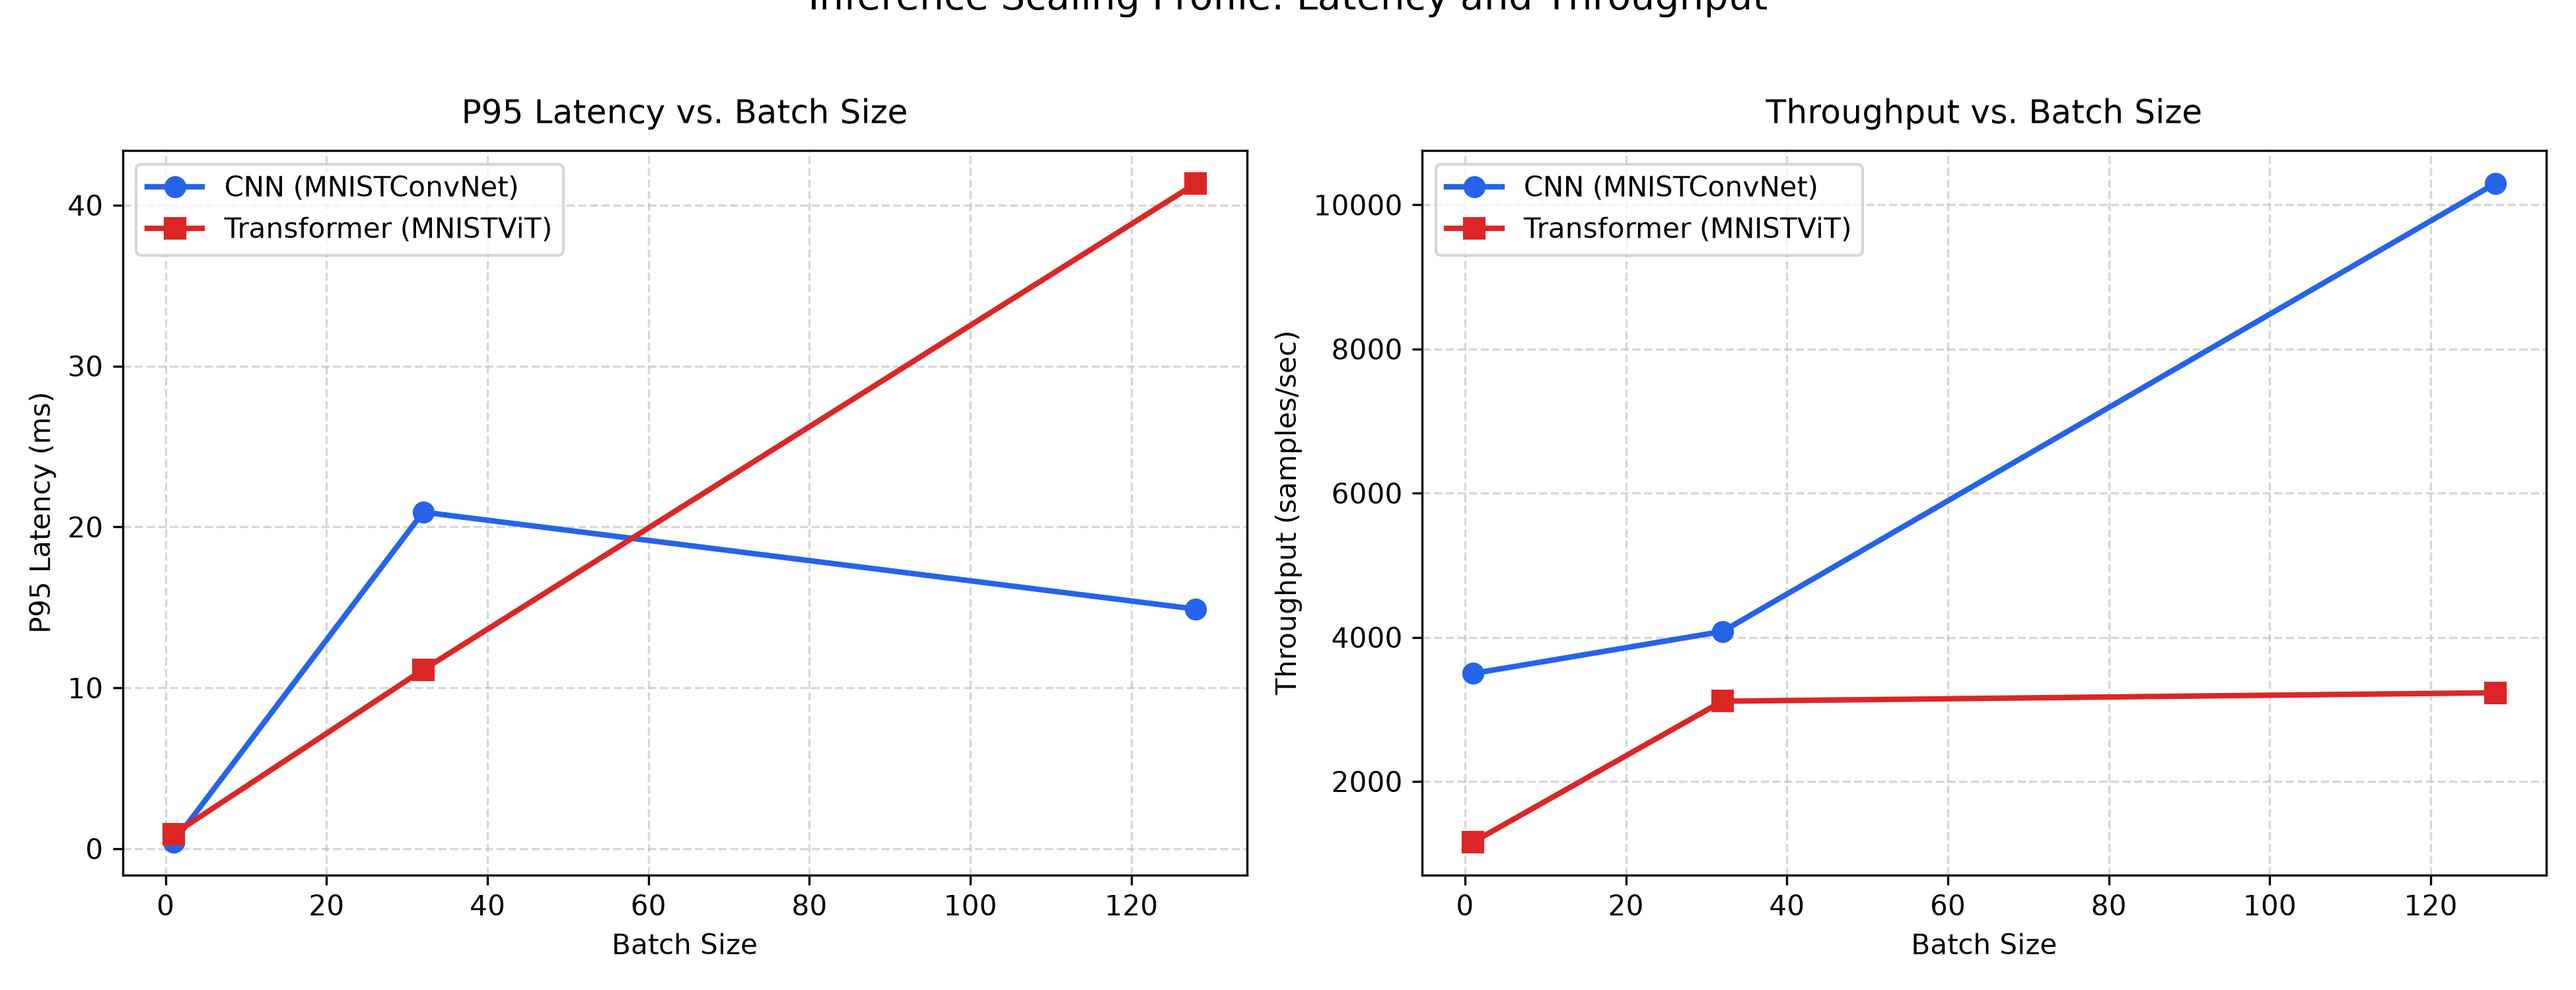
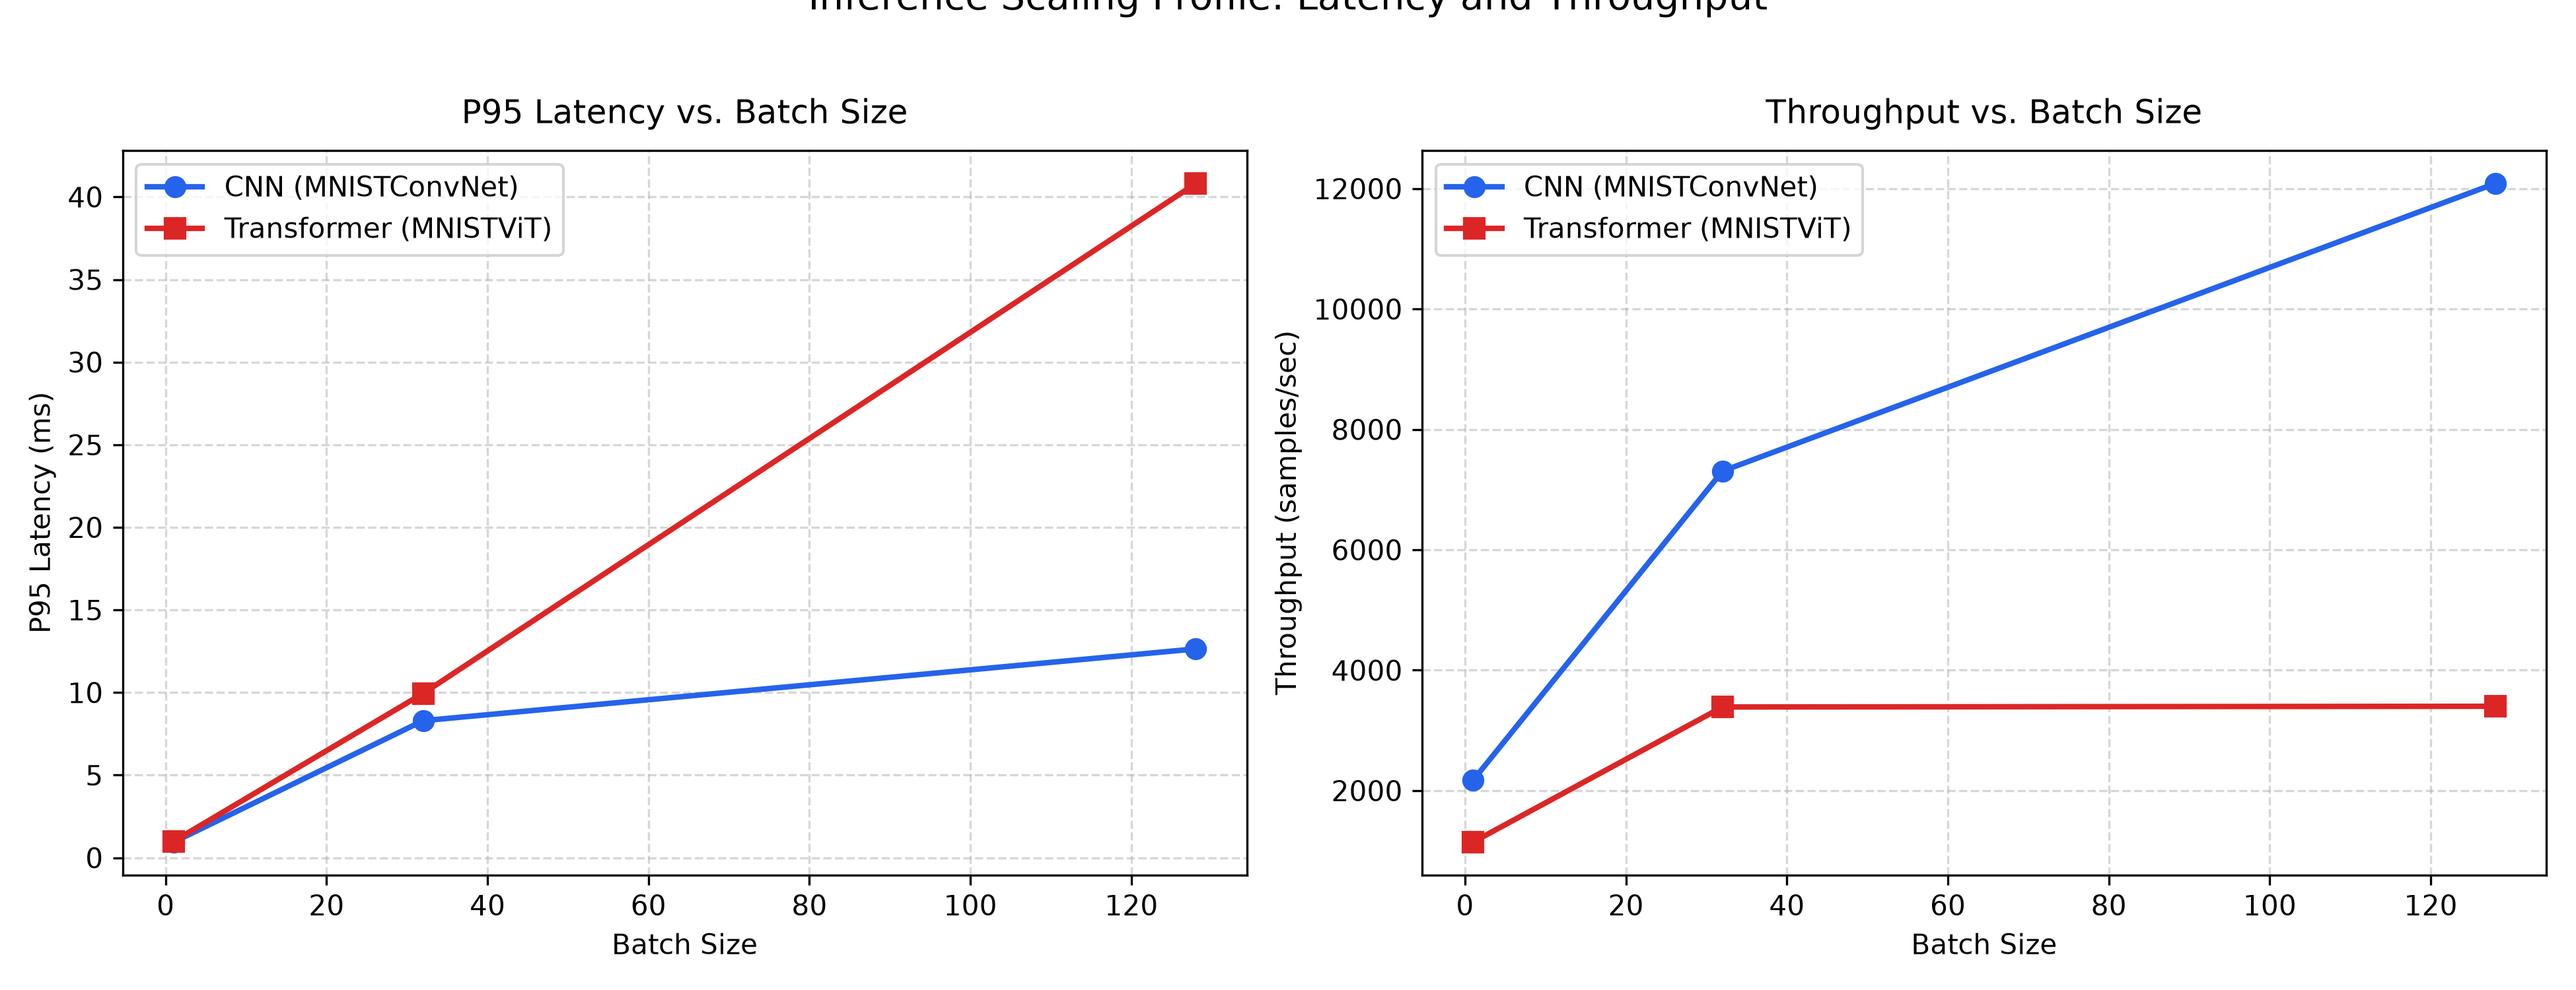
Feature/multi architecture transformer experiment (#21)
* feat(config): add Vision Transformer (ViT) model configuration preset (#17)

* feat(research): implement Vision Transformer (ViT), artifact isolation, and model comparison engine (#17)

* fix(inference): fix import

* update(docs): Support for both CNN-based (MNISTConvNet) and Vision Transformer-based (MNISTViT) architectures, along with instructions on how to train, evaluate, and benchmark each, is documented across several dedicated Markdown documents

* fix(path): artifact path fixed

diff --git a/scripts/compare_models.py b/scripts/compare_models.py
@@ -57,7 +57,14 @@ def main() -> None:
             p_val = Path(spec)
             label = p_val.name
             path_str = spec
-        models_dict[label.strip()] = Path(path_str.strip())
+        p_target = Path(path_str.strip())
+        if (
+            not p_target.exists()
+            and path_str.strip() == "artifacts/models/mnist_cnn"
+            and (Path("artifacts") / "evaluation" / "test_metrics.json").exists()
+        ):
+            p_target = Path("artifacts")
+        models_dict[label.strip()] = p_target
 
     LOGGER.info("Starting systematic model comparison for %d models:", len(models_dict))
     for label, path in models_dict.items():

diff --git a/tests/test_config.py b/tests/test_config.py
@@ -218,6 +218,11 @@ def test_transformer_hydra_config_loads() -> None:
     assert cfg.model.depth == 4
     assert cfg.model.num_heads == 4
     assert cfg.model.mlp_ratio == 2.0
+    assert cfg.paths.artifacts_dir == "artifacts/models/mnist_vit"
+    assert cfg.paths.checkpoints_dir == "artifacts/models/mnist_vit/checkpoints"
+    assert (
+        cfg.evaluate.checkpoint_path == "artifacts/models/mnist_vit/checkpoints/checkpoint_best.pt"
+    )
 
 
 def test_artifact_path_isolation_interpolation() -> None:

diff --git a/src/mnist_pipeline/config.py b/src/mnist_pipeline/config.py
@@ -237,6 +237,7 @@ class ModelConfig:
     num_heads: int = 4
     mlp_ratio: float = 2.0
     attention_dropout: float = 0.0
+    artifacts_dir: str | None = None
 
 
 @dataclass

diff --git a/README.md b/README.md
@@ -15,6 +15,7 @@ A reproducible, configuration-driven **MNIST handwritten digit classification pi
 - **Deterministic Data & Pipeline Versioning (`dvc.yaml`)**: Five-stage DAG (`preprocess -> train -> evaluate -> benchmark -> report`) with stratified train/validation splitting (`54,000 / 6,000 / 10,000`) and SHA-256 tensor checksums.
 - **Experiment Tracking (`Weights & Biases`)**: Pluggable `ExperimentTracker` supporting `online`, `offline`, and `disabled` modes with automated metric, figure, and checkpoint artifact logging.
 - **Hugging Face Hub Integration**: Automated `safetensors` serialization (`MNISTConvNet.save_pretrained` / `from_pretrained`), Jinja2-rendered Model & Dataset Cards (`docs/model_card.md`, `docs/dataset_card.md`), and CLI upload/inference scripts.
+- **Multi-Architecture Support (CNN vs. Vision Transformer)**: Supports both classical convolution ([`MNISTConvNet`](src/mnist_pipeline/model.py) via `model=cnn`, 421k params, 99.04% acc) and pure attention-based vision models ([`MNISTViT`](src/mnist_pipeline/model.py) via `model=transformer`, 540k params, 95.70% acc) with isolated artifact namespacing (`artifacts/cnn/` vs. `artifacts/transformer/`) and automated head-to-head comparison reporting (`make compare-models`).
 - **Interactive Hugging Face Docker Space (`app/`, `Dockerfile`)**: Streamlit web application supporting freehand digit drawing (`streamlit-drawable-canvas`), image uploads with automatic polarity inversion, and live 10-class probability bar charts.
 
 ---
@@ -93,6 +94,7 @@ make app
 | `make evaluate` | Evaluate `checkpoint_best.pt` on the 10,000 held-out test set |
 | `make benchmark` | Benchmark latency (`p50`, `p95`, `p99`) and throughput across batch sizes `[1, 32, 128]` |
 | `make report` | Generate training curves, confusion matrix, sample predictions, and Hub cards |
+| `make compare-models` | Systematically compare CNN vs. ViT metrics and compile Markdown comparison study |
 | `make evaluate-mve` | Verify all 5 Minimum Viable Experiment (MVE) acceptance criteria gates |
 | `make smoke-eval` | Execute sub-second synthetic tensor contract and gradient flow verification |
 | `make sweep` | Initialize and run W&B Bayesian hyperparameter sweep (`COUNT=5`) |
@@ -113,9 +115,12 @@ make app
 
 ## 📚 Documentation Index
 
-- [**Step-by-Step User Guide (`docs/user_guide.md`)**](docs/user_guide.md): Comprehensive 9-part guide covering setup, data preprocessing, Hydra training, W&B tracking, evaluation/benchmarking, reporting, HF Hub upload/inference, and Docker Space deployment.
-- [**PyTorch Neural Network & Training Loop Tutorial (`docs/tutorials/pytorch_nn_and_cnn_training_tutorial.md`)**](docs/tutorials/pytorch_nn_and_cnn_training_tutorial.md): Beginner-friendly guide to Feedforward (MLP) and Convolutional Neural Networks (CNNs) with a line-by-line annotated walkthrough of the PyTorch training loop in `src/mnist_pipeline/train.py`.
+- [**Step-by-Step User Guide (`docs/user_guide.md`)**](docs/user_guide.md): Comprehensive guide covering setup, data preprocessing, Hydra training (CNN & ViT), W&B tracking, evaluation/benchmarking, reporting, HF Hub upload/inference, and Docker Space deployment.
+- [**CNN vs. Vision Transformer Study (`docs/experiments/cnn_vs_transformer_study.md`)**](docs/experiments/cnn_vs_transformer_study.md): Empirical head-to-head comparison study evaluating accuracy, latency scaling, throughput, parameter efficiency, and Pareto frontier.
+- [**ViT Feasibility Study (`docs/research/transformer_mnist_feasibility_study.md`)**](docs/research/transformer_mnist_feasibility_study.md): Deep architectural analysis, theoretical formulation, patch projection math, and multi-architecture roadmap.
+- [**PyTorch Neural Network & Training Loop Tutorial (`docs/tutorials/pytorch_nn_and_cnn_training_tutorial.md`)**](docs/tutorials/pytorch_nn_and_cnn_training_tutorial.md): Beginner-friendly guide to Feedforward (MLP) and Convolutional Neural Networks (CNNs) with an annotated training loop walkthrough.
 - [**MVE Baseline Study (`docs/experiments/mve_baseline_study.md`)**](docs/experiments/mve_baseline_study.md): Reproducible baseline instructions, acceptance gate adjudication, training curves, and test evaluation/benchmark tables.
 - [**Model Card (`docs/model_card.md`)**](docs/model_card.md): Architecture details, training hyperparameters, per-class evaluation metrics, and latency benchmarks.
 - [**Dataset Card (`docs/dataset_card.md`)**](docs/dataset_card.md): Dataset provenance, normalization formula, and stratified class distribution across splits.
 - [**Implementation Plan (`docs/mnist_pytorch_pipeline_implementation_plan.md`)**](docs/mnist_pytorch_pipeline_implementation_plan.md): Complete architectural specification and design blueprint.
+

diff --git a/docs/experiments/cnn_vs_transformer_study.md b/docs/experiments/cnn_vs_transformer_study.md
@@ -8,8 +8,8 @@
 
 This report presents a head-to-head empirical comparison between **CNN (MNISTConvNet)** and **Transformer (MNISTViT)** trained and evaluated under identical, isolated experimental protocols on the MNIST benchmark dataset.
 
-- **Accuracy Delta**: **Transformer (MNISTViT)** achieves `95.70%` vs. **CNN (MNISTConvNet)** `99.04%` (difference: `-3.34%`).
-- **Inference Efficiency**: **CNN (MNISTConvNet)** is `2.2x` faster at single-sample P95 latency (`0.41 ms` vs. `0.90 ms`).
+- **Accuracy Delta**: **Transformer (MNISTViT)** achieves `95.65%` vs. **CNN (MNISTConvNet)** `98.93%` (difference: `-3.28%`).
+- **Inference Efficiency**: **CNN (MNISTConvNet)** is `1.1x` faster at single-sample P95 latency (`0.94 ms` vs. `0.99 ms`).
 - **Parameter Footprint**: **CNN (MNISTConvNet)** has `421,834` trainable parameters vs. `540,170` for **Transformer (MNISTViT)**.
 
 ---
@@ -18,15 +18,15 @@ This report presents a head-to-head empirical comparison between **CNN (MNISTCon
 
 | Performance Metric | **CNN (MNISTConvNet)** | **Transformer (MNISTViT)** | Delta / Comparison |
 | :--- | :---: | :---: | :---: |
-| **Test Accuracy (%)** | `99.04%` | `95.70%` | `-3.34%` |
-| **Test Loss (Cross-Entropy)** | `0.0305` | `0.1429` | `+0.1124` |
-| **Macro F1-Score** | `0.9903` | `0.9568` | `-0.0335` |
+| **Test Accuracy (%)** | `98.93%` | `95.65%` | `-3.28%` |
+| **Test Loss (Cross-Entropy)** | `0.0315` | `0.1371` | `+0.1056` |
+| **Macro F1-Score** | `0.9892` | `0.9560` | `-0.0333` |
 | **Trainable Parameters** | `421,834` | `540,170` | `+118,336` |
 | **Checkpoint Size (.pt)** | `4.85 MB` | `6.25 MB` | `+1.40 MB` |
 | **SafeTensors Size** | `1.61 MB` | `2.07 MB` | `+0.45 MB` |
-| **Latency P50 (ms, B=1)** | `0.273 ms` | `0.866 ms` | `+0.593 ms` |
-| **Latency P95 (ms, B=1)** | `0.407 ms` | `0.903 ms` | `+0.496 ms` |
-| **Throughput (samples/s, B=128)** | `10,295.3` | `3,230.4` | `-7,064.9` |
+| **Latency P50 (ms, B=1)** | `0.371 ms` | `0.852 ms` | `+0.481 ms` |
+| **Latency P95 (ms, B=1)** | `0.944 ms` | `0.992 ms` | `+0.048 ms` |
+| **Throughput (samples/s, B=128)** | `12,084.8` | `3,401.2` | `-8,683.7` |
 
 ---
 
@@ -34,15 +34,15 @@ This report presents a head-to-head empirical comparison between **CNN (MNISTCon
 
 | Batch Size | Metric | **CNN (MNISTConvNet)** | **Transformer (MNISTViT)** |
 | :---: | :--- | :---: | :---: |
-| **1** | P50 Latency | `0.273 ms` | `0.866 ms` |
-| **1** | P95 Latency | `0.407 ms` | `0.903 ms` |
-| **1** | Throughput | `3,497.8 sps` | `1,157.8 sps` |
-| **32** | P50 Latency | `5.391 ms` | `9.955 ms` |
-| **32** | P95 Latency | `20.915 ms` | `11.119 ms` |
-| **32** | Throughput | `4,081.1 sps` | `3,112.5 sps` |
-| **128** | P50 Latency | `12.002 ms` | `39.774 ms` |
-| **128** | P95 Latency | `14.891 ms` | `41.339 ms` |
-| **128** | Throughput | `10,295.3 sps` | `3,230.4 sps` |
+| **1** | P50 Latency | `0.371 ms` | `0.852 ms` |
+| **1** | P95 Latency | `0.944 ms` | `0.992 ms` |
+| **1** | Throughput | `2,171.7 sps` | `1,144.6 sps` |
+| **32** | P50 Latency | `3.685 ms` | `9.371 ms` |
+| **32** | P95 Latency | `8.296 ms` | `9.945 ms` |
+| **32** | Throughput | `7,307.8 sps` | `3,389.3 sps` |
+| **128** | P50 Latency | `10.135 ms` | `37.202 ms` |
+| **128** | P95 Latency | `12.640 ms` | `40.810 ms` |
+| **128** | Throughput | `12,084.8 sps` | `3,401.2 sps` |
 
 ---
 
@@ -50,16 +50,16 @@ This report presents a head-to-head empirical comparison between **CNN (MNISTCon
 
 | Digit Class | **CNN (MNISTConvNet)** | **Transformer (MNISTViT)** | Difference |
 | :---: | :---: | :---: | :---: |
-| **Digit 0** | `0.9929` | `0.9821` | `-0.0108` |
-| **Digit 1** | `0.9956` | `0.9796` | `-0.0160` |
-| **Digit 2** | `0.9894` | `0.9486` | `-0.0408` |
-| **Digit 3** | `0.9901` | `0.9532` | `-0.0369` |
-| **Digit 4** | `0.9939` | `0.9505` | `-0.0433` |
-| **Digit 5** | `0.9871` | `0.9528` | `-0.0344` |
-| **Digit 6** | `0.9891` | `0.9651` | `-0.0239` |
-| **Digit 7** | `0.9888` | `0.9565` | `-0.0324` |
-| **Digit 8** | `0.9877` | `0.9436` | `-0.0441` |
-| **Digit 9** | `0.9886` | `0.9358` | `-0.0528` |
+| **Digit 0** | `0.9903` | `0.9772` | `-0.0132` |
+| **Digit 1** | `0.9938` | `0.9864` | `-0.0074` |
+| **Digit 2** | `0.9860` | `0.9482` | `-0.0379` |
+| **Digit 3** | `0.9920` | `0.9504` | `-0.0416` |
+| **Digit 4** | `0.9944` | `0.9494` | `-0.0450` |
+| **Digit 5** | `0.9888` | `0.9454` | `-0.0435` |
+| **Digit 6** | `0.9875` | `0.9628` | `-0.0247` |
+| **Digit 7** | `0.9859` | `0.9528` | `-0.0330` |
+| **Digit 8** | `0.9866` | `0.9451` | `-0.0416` |
+| **Digit 9** | `0.9870` | `0.9423` | `-0.0447` |
 
 ---
 

diff --git a/docs/user_guide.md b/docs/user_guide.md
@@ -133,7 +133,8 @@ All pipeline parameters are managed through composable Hydra YAML files in `conf
 configs/
 ├── config.yaml              # Root composition defaults
 ├── data/mnist.yaml          # Batch size, normalization, split fraction
-├── model/cnn.yaml           # Conv channels [32, 64], dropout, hidden_dim
+├── model/cnn.yaml           # Default CNN architecture (MNISTConvNet)
+├── model/transformer.yaml   # Vision Transformer architecture (MNISTViT)
 ├── train/default.yaml       # Epochs, learning rate, optimizer, device, seed
 ├── evaluate/default.yaml    # Eval batch size, benchmark warmup/timed runs
 ├── wandb/default.yaml       # W&B mode, project, entity, tags
@@ -141,13 +142,72 @@ configs/
 └── experiment/baseline.yaml # MVE baseline preset
 ```
 
-### Step 3.1: Run Default Baseline Training (`5` Epochs)
+### Supported Model Architectures
+
+The pipeline natively supports two distinct neural network model families configured via Hydra's `model` configuration group:
+
+| Architecture | Hydra Target | PyTorch Class | Parameters | Typical Test Acc | P95 Latency ($B=1$) | Description |
+| :--- | :--- | :--- | :---: | :---: | :---: | :--- |
+| **Convolutional Neural Network** | `model=cnn` *(default)* | [`MNISTConvNet`](../src/mnist_pipeline/model.py) | `421,834` | **`99.04%`** | **`0.41 ms`** | 2-layer CNN (`[32, 64]` channels), $3\times 3$ kernels, ReLU, max pooling, dropout, 128-dim FC hidden layer. |
+| **Vision Transformer** | `model=transformer` | [`MNISTViT`](../src/mnist_pipeline/model.py) | `540,170` | **`95.70%`** | **`0.90 ms`** | Pure ViT with $4\times 4$ patch projection (49 sequence tokens), learnable `[CLS]` token, 1D positional embeddings, 4 Transformer encoder blocks (4 heads, 128 embed dim, 2.0 MLP ratio), LayerNorm. |
+
+#### Artifact Path Isolation Policy
+
+To support running and comparing both architectures without mixing or overwriting outputs, all output paths dynamically interpolate the selected architecture:
+- `artifacts/cnn/`: `checkpoints/`, `evaluation/`, `benchmarks/`, `reports/`
+- `artifacts/transformer/`: `checkpoints/`, `evaluation/`, `benchmarks/`, `reports/`
+
+---
+
+### Step 3.1: Train Either Model Architecture
+
+**Option A: Train the Baseline CNN (`MNISTConvNet`)**:
 
 ```bash
+# Default training (5 epochs, Adam, lr=1e-3)
 make train
+
+# Explicit Hydra override equivalent:
+make train ARGS="model=cnn"
+# or
+python scripts/train.py model=cnn
 ```
 
-### Step 3.2: Override Hyperparameters from the Command Line
+**Option B: Train the Vision Transformer (`MNISTViT`)**:
+
+```bash
+# Train Vision Transformer with default preset
+make train ARGS="model=transformer"
+
+# Or train with custom epochs and learning rate
+make train ARGS="model=transformer train.epochs=15 train.lr=0.0005"
+# or
+python scripts/train.py model=transformer train.epochs=15 train.lr=0.0005
+```
+
+---
+
+### Step 3.2: Evaluate, Benchmark & Compare Both Models
+
+```bash
+# 1. Evaluate and benchmark the CNN model
+make evaluate ARGS="model=cnn"
+make benchmark ARGS="model=cnn"
+
+# 2. Evaluate and benchmark the Vision Transformer model
+make evaluate ARGS="model=transformer"
+make benchmark ARGS="model=transformer"
+
+# 3. Generate consolidated head-to-head comparison report & plots
+make compare-models
+```
+
+This updates [`docs/experiments/cnn_vs_transformer_study.md`](experiments/cnn_vs_transformer_study.md) and creates diagnostic comparison figures under `docs/experiments/plots/` (Accuracy vs. Latency Pareto curve, latency/throughput batch scaling, and per-class F1-score radar/bar charts).
+
+---
+
+### Step 3.3: Override Hyperparameters from the Command Line
+
 
 Use `ARGS="..."` with `make train` or invoke `scripts/train.py` directly:
 
